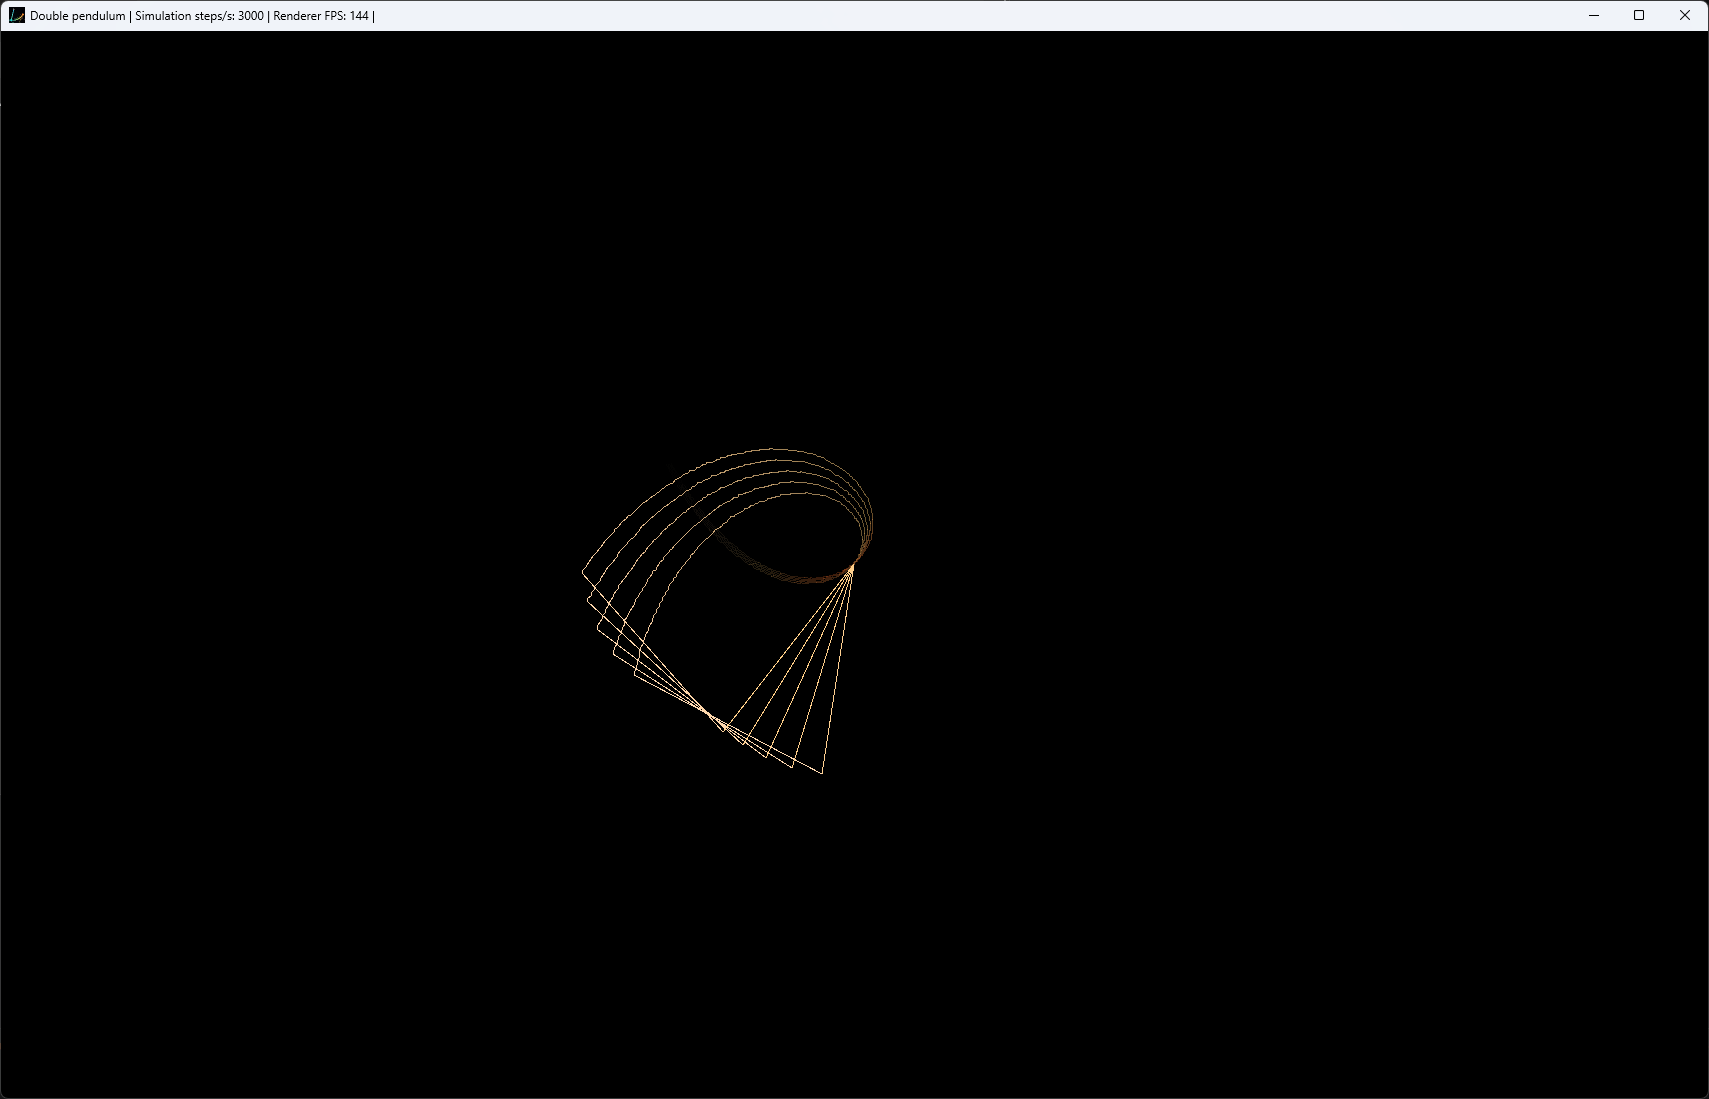
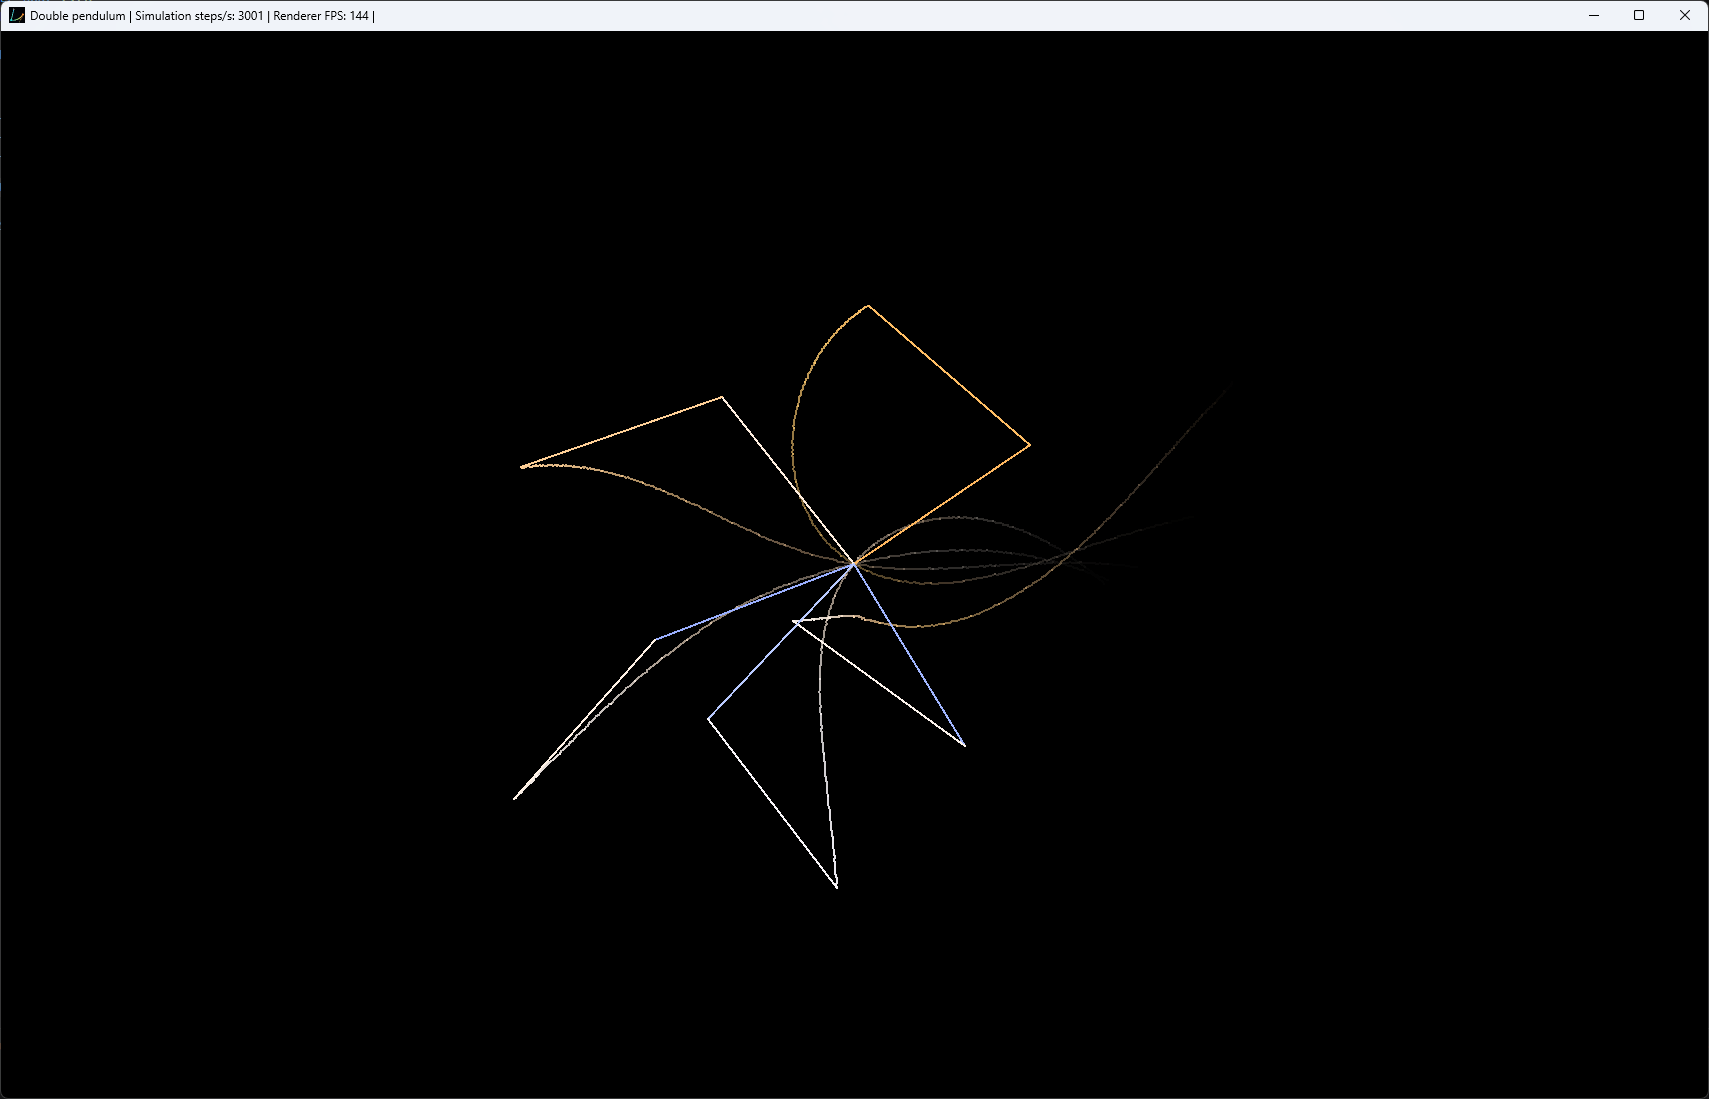
Fix: readme.md sections

diff --git a/src/config/render_config.h b/src/config/render_config.h
@@ -5,13 +5,13 @@
 
 #define COLOR_DECAY_PER_MILLE 995
 #define COLOR_DECAY ((double)COLOR_DECAY_PER_MILLE / 1000.0)
-#define COLOR_DECAY_REFERENCE_FPS 60
+#define COLOR_DECAY_REFERENCE_FPS 60 // apply the equivalent of COLOR_DECAY_PER_MILLE every 1/60th of a second
 
-#define ROD_WIDTH_PER_MILLE 1000
+#define ROD_WIDTH_PER_MILLE 2000
 #define ROD_WIDTH_PIXELS ((float)ROD_WIDTH_PER_MILLE / 1000.0f)
 
 #define TRAIL 1
-#define TRAIL_WIDTH_PER_MILLE 1000
+#define TRAIL_WIDTH_PER_MILLE 1500
 #define TRAIL_WIDTH_PIXELS ((float)TRAIL_WIDTH_PER_MILLE / 1000.0f)
 
 // Trail history is split into render-target buckets. New trail segments are

diff --git a/README.md b/README.md
@@ -179,81 +179,23 @@ Edit `src/config/app_config.h`:
 
 `src/config/config_validation.h` validates these values with `_Static_assert`.
 
-## Implementation Details
+## Technical Notes
 
-### Window Size and Scale
+The implementation is split by responsibility:
 
-The initial window size is hardcoded in `src/app/window.c`: the app uses about two thirds of the current display size, with a fallback of `1280x720` if SDL cannot query the display mode. The minimum window size is one fifth of the initial size, and the window is resizable.
+- `src/app/`: SDL window setup, input, frame timing, and the fixed-step application loop.
+- `src/simulation/`: pendulum state, equations of motion, initialization, and RK4 integration.
+- `src/renderer/sdl/`: SDL rendering, screen-space conversion, rods, trails, and color mapping.
+- `src/config/`: compile-time parameters and validation.
 
-The simulation-to-screen scale is computed in `src/renderer/sdl/renderer.c`. The renderer centers the pendulum at `w / 2, h / 2`, sets `max_rend_len` to one fifth of the smaller window dimension, and scales configured rod lengths relative to the longer configured rod.
+A few design choices are useful to know before changing behavior:
 
-### Physics
-
-Each pendulum stores:
-
-- `PendulumParams`: two rod lengths and two masses.
-- `PendulumState`: two angles and two angular velocities.
-
-`src/simulation/pendulum_equations.c` computes angular accelerations from the current state, masses, lengths, and gravity. It precomputes trigonometric terms and repeated values before evaluating the acceleration equations.
-
-The integrator in `src/simulation/integrators/rk4.c` advances each `PendulumState` with fourth-order Runge-Kutta using the fixed `SIMULATION_DT` from `src/config/simulation_config.h`.
-
-`src/app/app.c` accumulates elapsed frame time, multiplies it by `SIMULATION_TIME_SCALE`, converts the accumulator into fixed simulation steps, and caps the number of steps per frame with `MAX_SIMULATION_STEPS_PER_FRAME`. The cap is derived in `src/config/app_config.h` as `ceil(SIMULATION_STEPS_PER_SECOND * SIMULATION_TIME_SCALE / MIN_SUPPORTED_RENDER_FPS)`.
-
-`src/simulation/simulation.c` initializes `TOTAL_PENDULUMS` states. In both default and custom modes, each pendulum receives an index-based angle offset through the relevant `*_ANGLE_ADDER` macro. This is what makes initially similar pendulums diverge visually.
-
-Positions are derived during renderer preparation rather than stored in the simulation state.
-
-### Rendering
-
-The SDL backend creates an accelerated, vsynced `SDL_Renderer`. If trails are enabled, it also requests target texture support.
-
-For each pendulum, `src/renderer/sdl/renderer.c` converts angles to screen coordinates:
-
-- The pivot is centered in the window.
-- Rod lengths are scaled to the current window size.
-- `x` uses `sin(angle)`.
-- `y` uses `cos(angle)`.
-
-The current renderer draws rods and tip trails.
-
-`src/renderer/sdl/line_batch.c` turns thick line segments into quads and draws them with `SDL_RenderGeometry`. Rods use one batch with two line segments per pendulum.
-
-`src/renderer/sdl/trail.c` stores trail history in multiple render-target textures. New tip segments are drawn into the current bucket, old buckets are rendered with age-based alpha, and expired buckets are cleared.
-
-`src/renderer/sdl/color.c` maps rod speed to a color spectrum. The speed normalization uses the decayed maximum angular velocity tracked in `src/app/render_data.c`.
-
-Each frame clears the backbuffer to black, draws trail buckets if enabled, draws rods, and presents with `SDL_RenderPresent`.
-
-### Application Loop
-
-The main loop in `src/app/app.c` performs this sequence:
-
-1. Poll SDL events with `input_poll`.
-2. Update frame timing with `fps_update`.
-3. Add scaled frame time to the fixed-step accumulator.
-4. Consume and run simulation steps.
-5. Update the window title with render FPS and simulation steps per second.
-6. Pack simulation snapshots into `RenderData`.
-7. Prepare and render the SDL frame.
-
-If the window is minimized or reports a zero render size, the loop calls `SDL_Delay(1)`. Otherwise, pacing is primarily handled by the vsynced SDL renderer.
-
-## Optimizations
-
-The implementation favors clarity and low overhead over complex optimization. Current optimizations include:
-
-- Fixed-step simulation with a per-frame step cap to avoid unbounded catch-up work after slow frames.
-- Simple contiguous arrays for pendulum states and render samples.
-- Optional C11 thread-pool parallelism for simulation updates and renderer preparation.
-- A synchronous `threadpool_parallel_for` where the controlling thread processes one chunk while worker threads process the rest.
-- Renderer data buffers and line batches allocated during initialization, then reused each frame.
-- Thick rods and trails batched through `SDL_RenderGeometry` instead of issuing one draw operation per segment.
-- Trail history stored in render-target buckets so the full path history does not need to be rebuilt from CPU-side point lists every frame.
-- Reuse of trigonometric values during renderer preparation and acceleration calculations.
-- Release builds attempt IPO/LTO when supported by GCC and CMake.
-
-With the current default `TOTAL_PENDULUMS` of `5` and `THREADPOOL_MIN_ITEMS_PER_JOB` of `256`, the app does not create worker threads because the workload is too small to benefit.
+- Simulation advances with fixed `SIMULATION_DT` steps; the app accumulates scaled frame time and caps per-frame catch-up work with `MAX_SIMULATION_STEPS_PER_FRAME`.
+- Positions are derived for rendering instead of stored in the simulation state.
+- Multiple pendulums use index-based initial angle offsets to make chaotic divergence visible.
+- Rods and trails are batched through `SDL_RenderGeometry`.
+- Trail history is stored in render-target texture buckets rather than rebuilt from CPU-side point lists each frame.
+- Worker threads are only useful for larger `TOTAL_PENDULUMS` values; the default workload is intentionally small.
 
 ## Dependencies
 